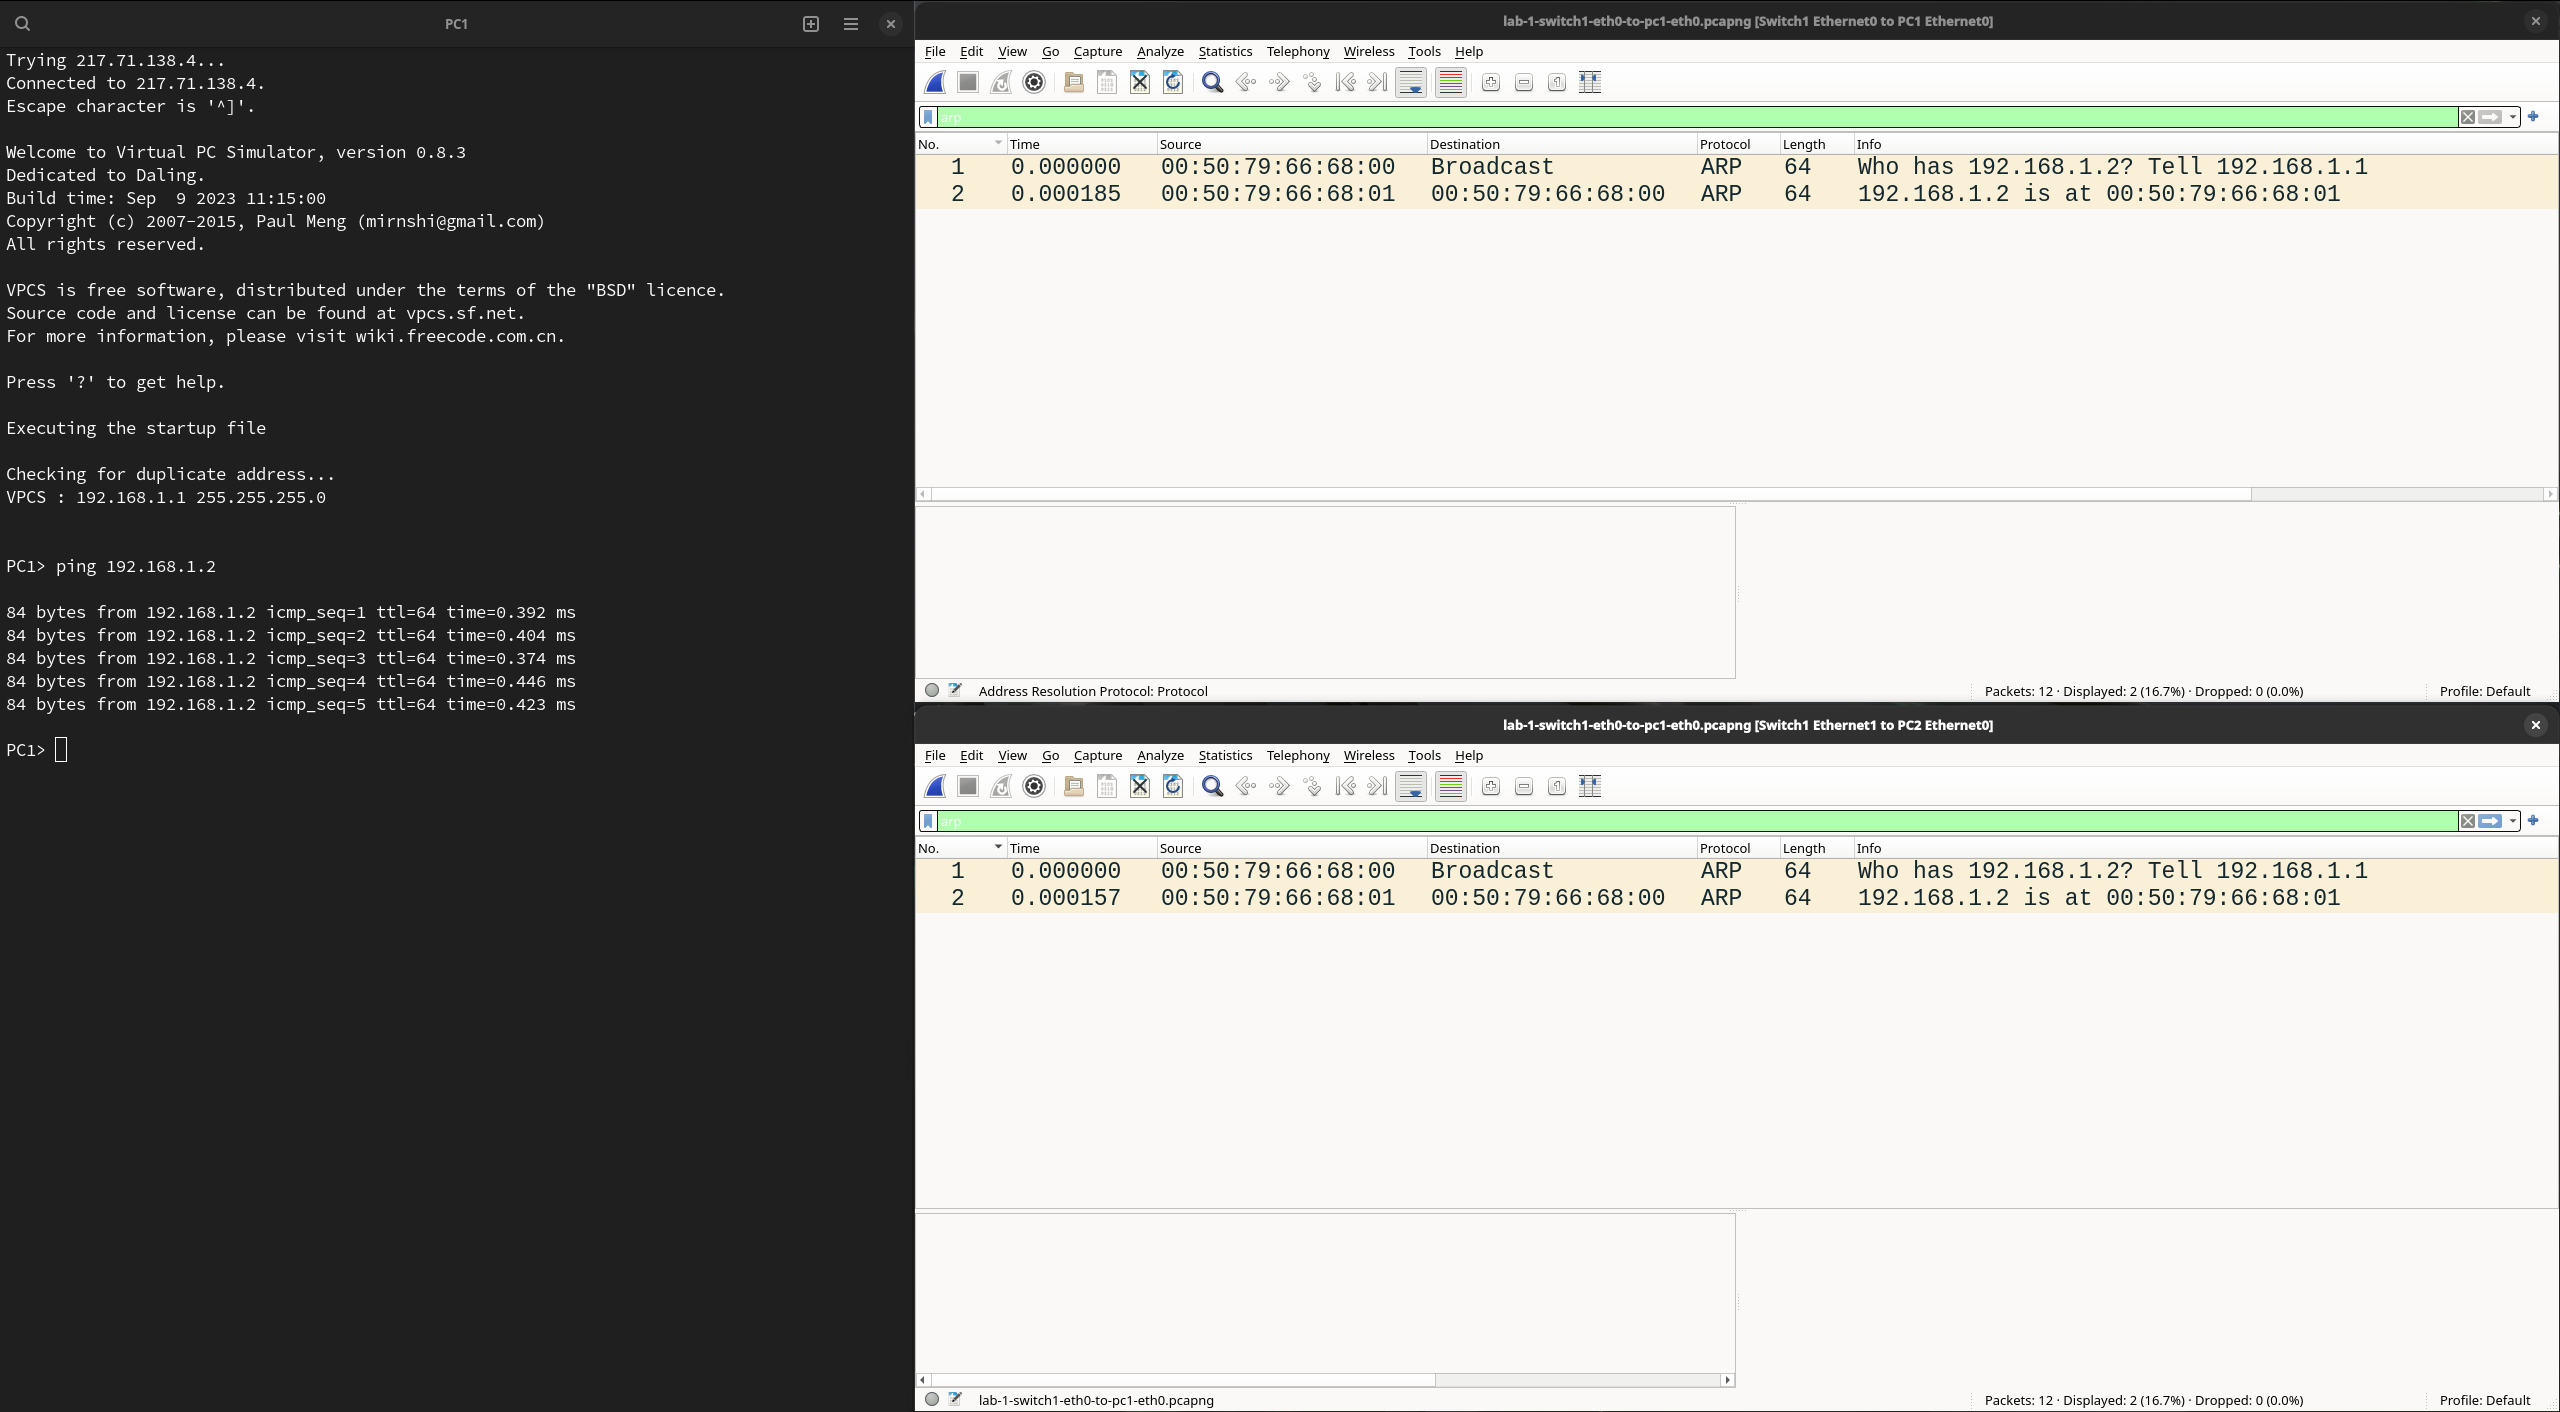
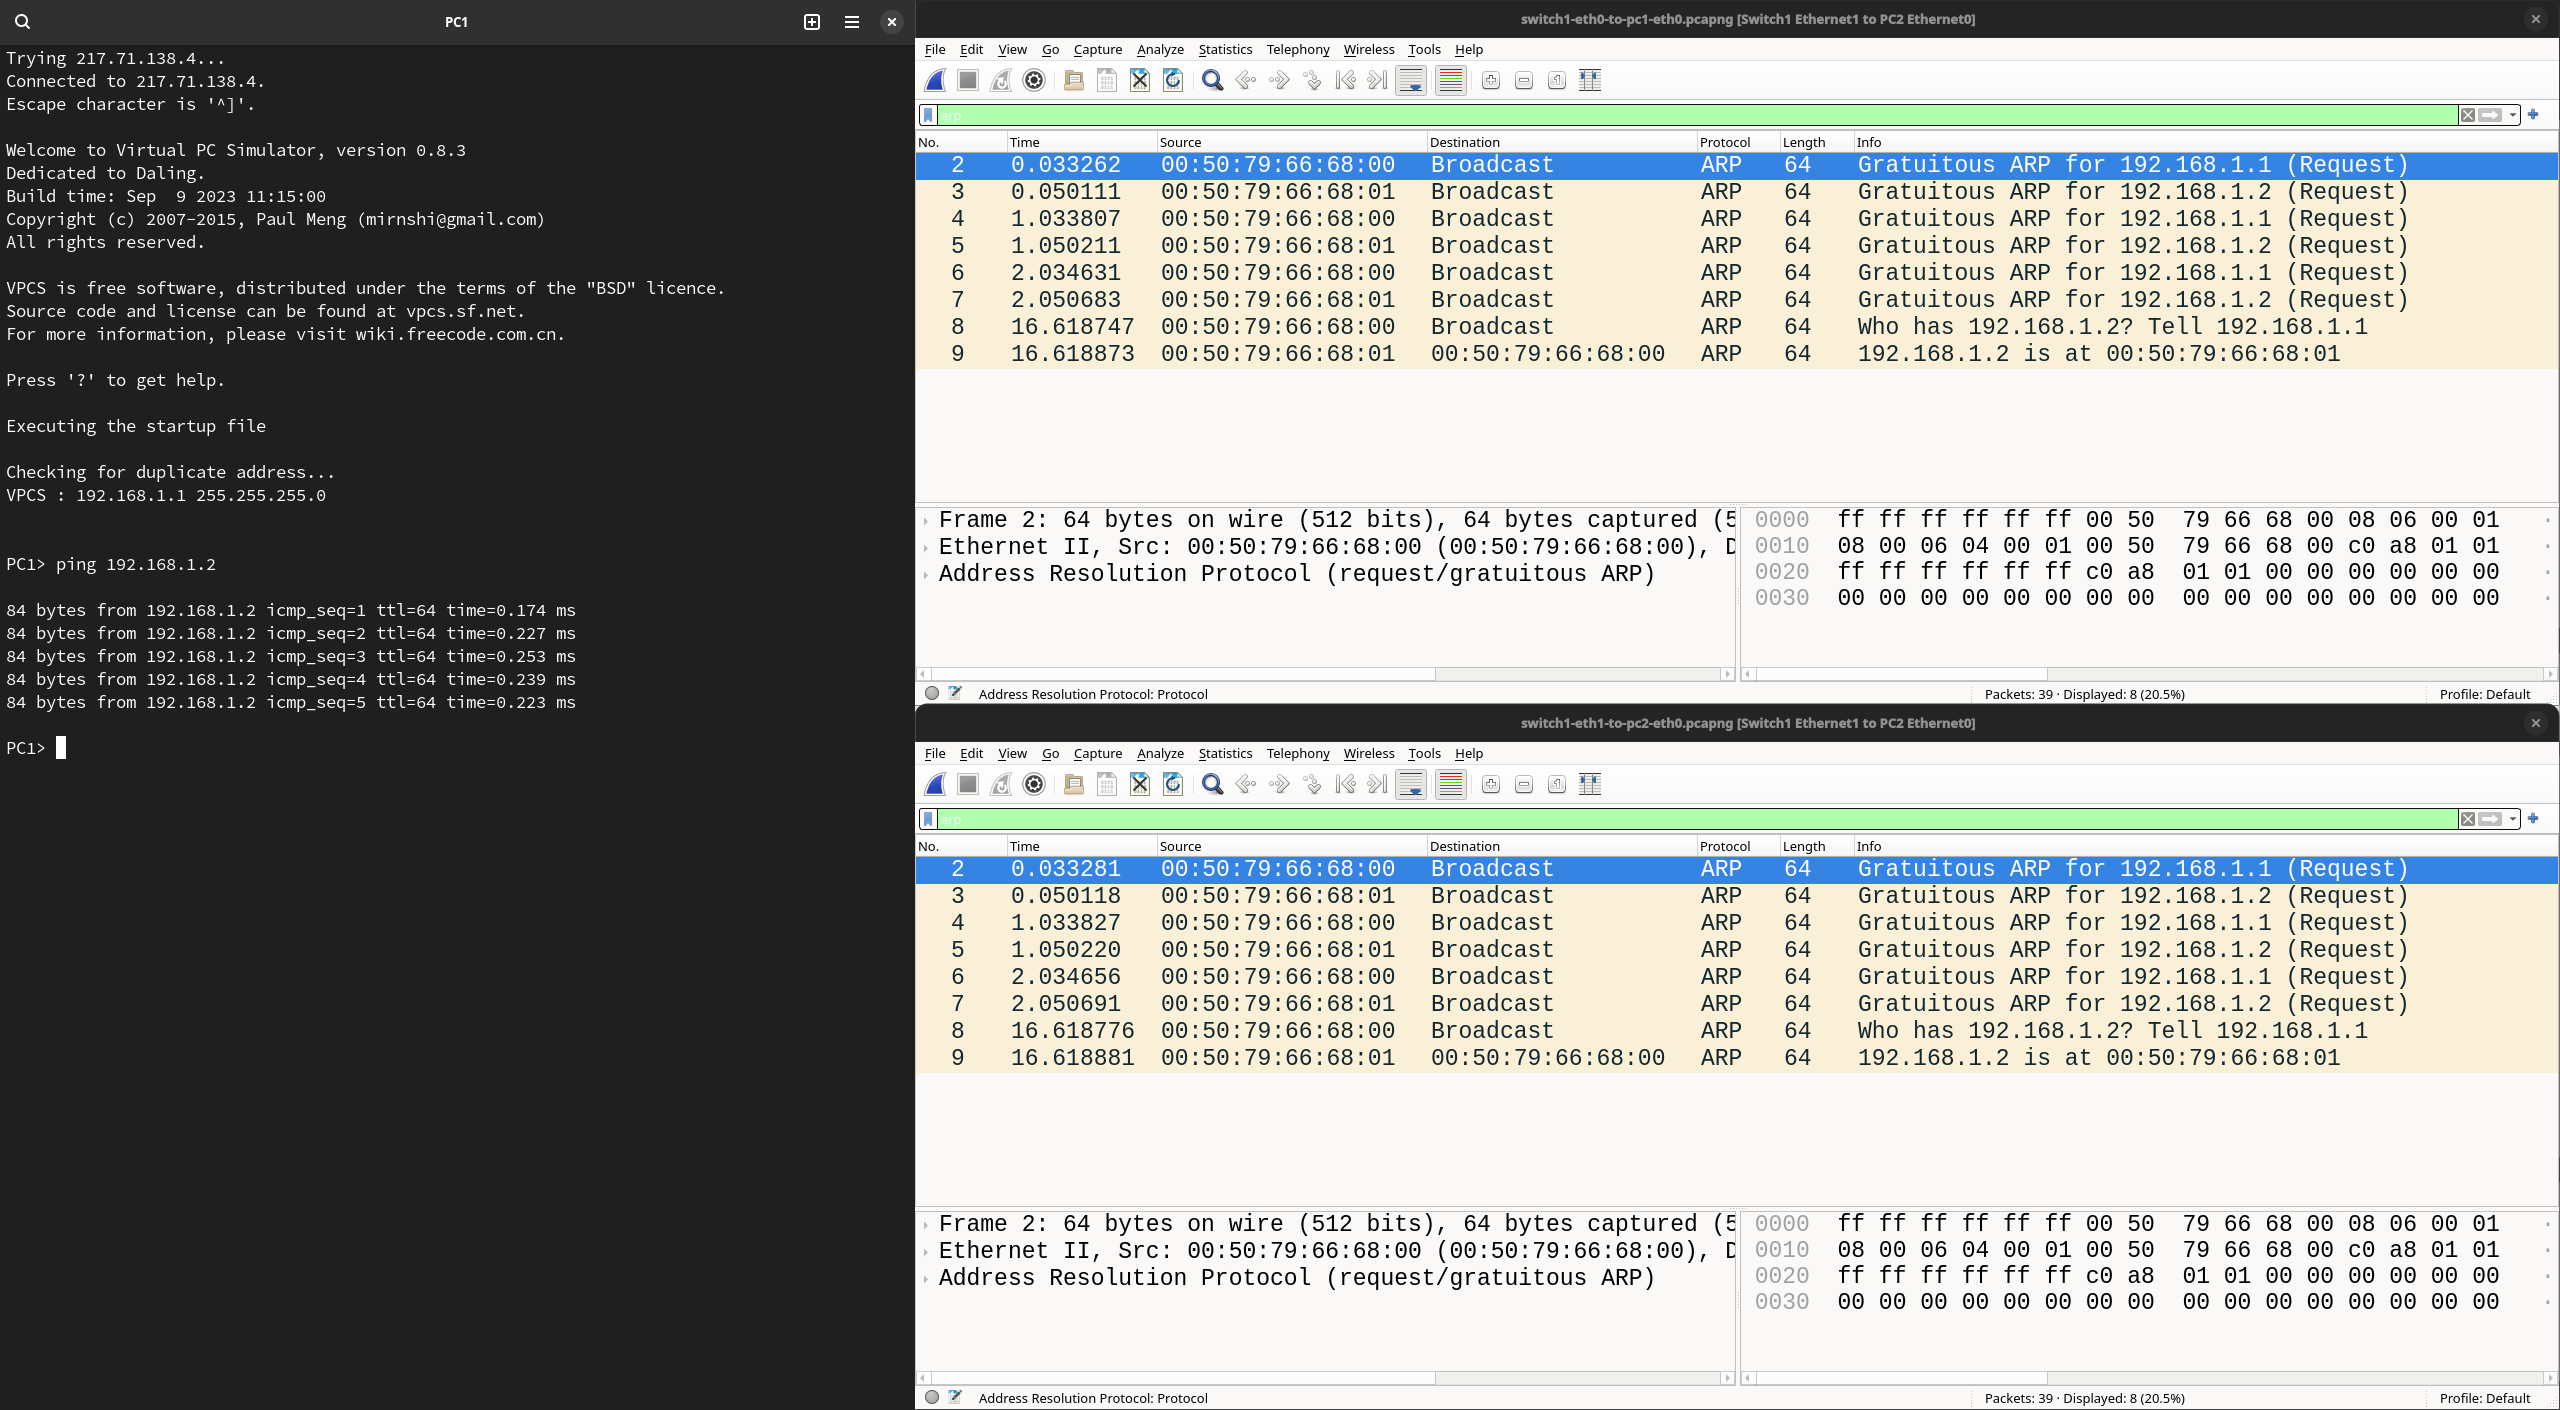
lab-work-1.md: description of the arp request interception

diff --git a/src/module-4/lab-work-1.md b/src/module-4/lab-work-1.md
@@ -1,17 +1,53 @@
-# Лабораторная работа №1
+#Лабораторная работа №1
+
+- ## Show IP
+
+  - ### PC1
+
+    - NAME        : PC1[1]
+    - IP/MASK     : 192.168.1.1/24
+    - GATEWAY     : 255.255.255.0
+    - DNS         : 
+    - MAC         : 00:50:79:66:68:00
+    - LPORT       : 20130
+    - RHOST:PORT  : 127.0.0.1:20131
+    - MTU         : 1500
+
+  - ### PC2
+
+    - NAME        : PC2[1]
+    - IP/MASK     : 192.168.1.2/24
+    - GATEWAY     : 255.255.255.0
+    - DNS         : 
+    - MAC         : 00:50:79:66:68:01
+    - LPORT       : 20132
+    - RHOST:PORT  : 127.0.0.1:20133
+    - MTU         : 1500
 
 - ## Локальная сеть из Ethernet Switch и 2-х VPCS
 
   - ### Подключение устройств
 
     - На данном изображении показано, как осуществляется подключение двух персональных компьютеров к коммутатору с помощью прямого кабеля. Это позволяет создать локальную сеть (LAN) между устройствами.
+      
       ![1 1](https://github.com/user-attachments/assets/f92fd802-dce3-4f11-8994-88bffa1ca042)
 
   - ### Настройка IP-адресов
 
     - На этом скриншоте показан процесс настройки IP-адресов для обоих VPCS. Адреса выбраны так, чтобы находиться в одной подсети. Используя маску 255.255.255.0, первые три октета IP-адреса определяют адрес сети, а последний октет указывает уникальный номер для каждого компьютера. Это позволяет устройствам обмениваться данными в локальной сети без конфликтов адресов.
+      
       ![1 2](https://github.com/user-attachments/assets/bed99c14-bc9a-4d85-b2bd-a9ddd5afb1a0)
 
-  - ### Перехват трафика протокола arp на всех линках
+  - ### Перехват трафика протокола arp
+
     - На изображении представлена командная строка персонального компьютера, с которого отправляется команда ping, а также интерфейс программы Wireshark, запущенной для захвата трафика протокола ARP на двух сетевых интерфейсах.
-      ![1 3](https://github.com/user-attachments/assets/4c543842-c315-4bb6-88fb-80cb69a3ffc5)
+
+    - ### Описание:
+
+            1. **ARP-запрос**: Компьютер PC1 с MAC-адресом 00:50:79:66:68:00 отправляет широковещательный ARP-запрос для определения MAC-адреса компьютера PC2, основываясь на его IP-адресе. Этот запрос рассылается всем устройствам в локальной сети.
+
+            2. **Ответ от PC2**: Компьютер PC2, имеющий MAC-адрес 00:50:79:66:68:01, получает ARP-запрос и отвечает на него. В ответе PC2 указывает свой MAC-адрес.
+
+            3. **Процесс разрешения адресов**: Этот процесс позволяет PC1 узнать физический адрес (MAC) PC2, что необходимо для установления прямого соединения и передачи данных по сети.
+      
+      ![1 3](https://github.com/user-attachments/assets/ed289aa7-e99e-4d32-a62b-19254c9e6e04)
